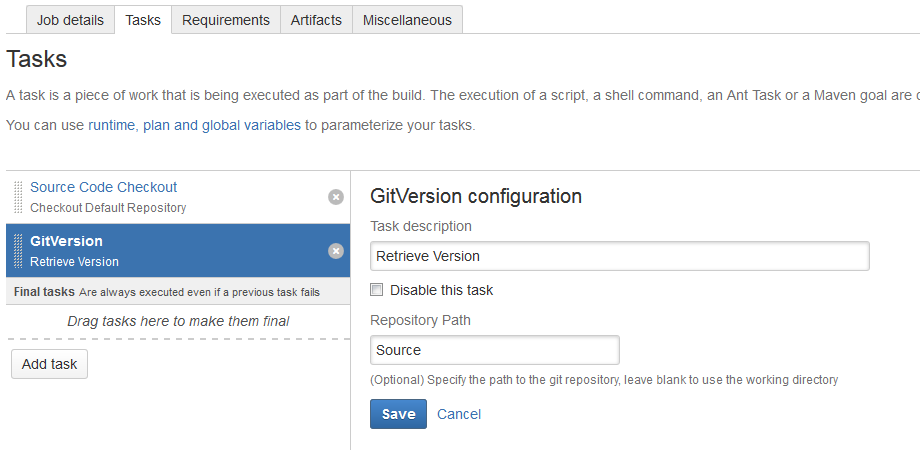
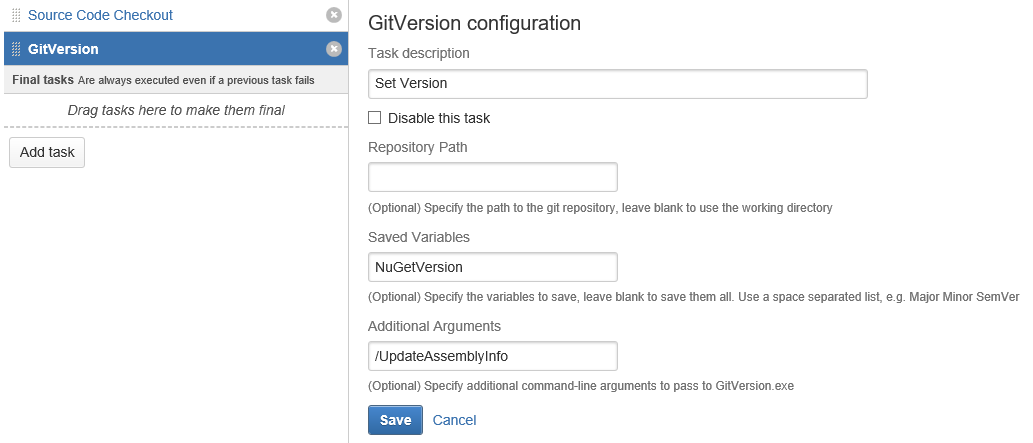
Site updated at 2016-01-07 02:26:58 UTC

diff --git a/projects/gitversion/index.html b/projects/gitversion/index.html
@@ -101,10 +101,11 @@ Report a bug or request a feature GitVersion for &hellip;">
 <h2>Quick Start</h2>
 
 <ol>
-<li>Install GitVersion on your build agent(s). <code>choco install gitvesrion.portable</code></li>
+<li>Install GitVersion on your build agent(s). <code>choco install gitversion.portable</code></li>
 <li>Install the <a href="https://marketplace.atlassian.com/plugins/com.carolynvs.gitversion">GitVersion plugin</a> on your Bamboo master.</li>
 <li>From the Bamboo Administration page, select System Capabilities and click the &ldquo;Detect Capabilities&rdquo; button.</li>
 <li>In a Bamboo plan, edit your tasks and insert the GitVersion task after your Source Code Checkout task. <img src="/images/gitversion/task-definition.png" alt="image" /></li>
+<li>Optionally configure the task to only extract specific GitVersion variables, or pass additional command-line arguments. For example, if you are building a .NET project, you may want to pass /UpdateAssemblyInfo to automatically stamp your assemblies with the generated version.</li>
 <li>Run a build and when it completes, go to the results of the job which contains the GitVersion task. On the Metadata tab you will see all the new variables available to you to use. <img src="/images/gitversion/job-metadata.png" alt="image" /></li>
 </ol>
 
